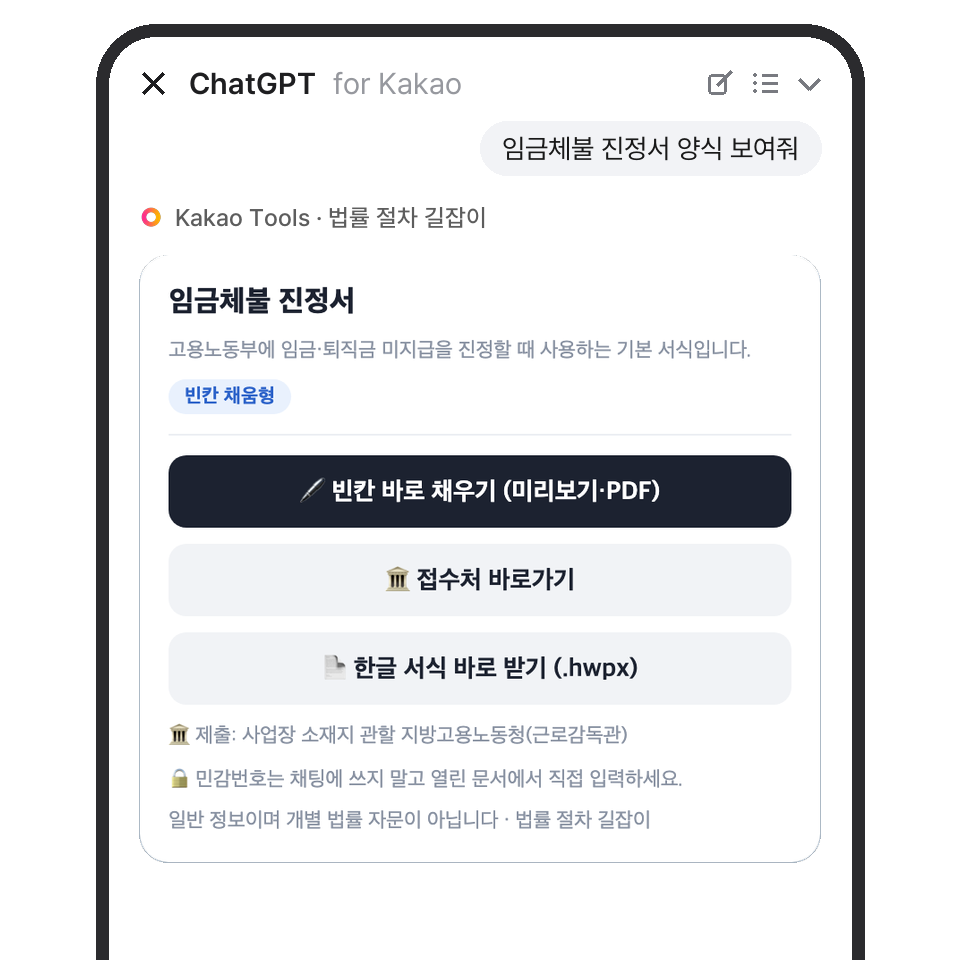
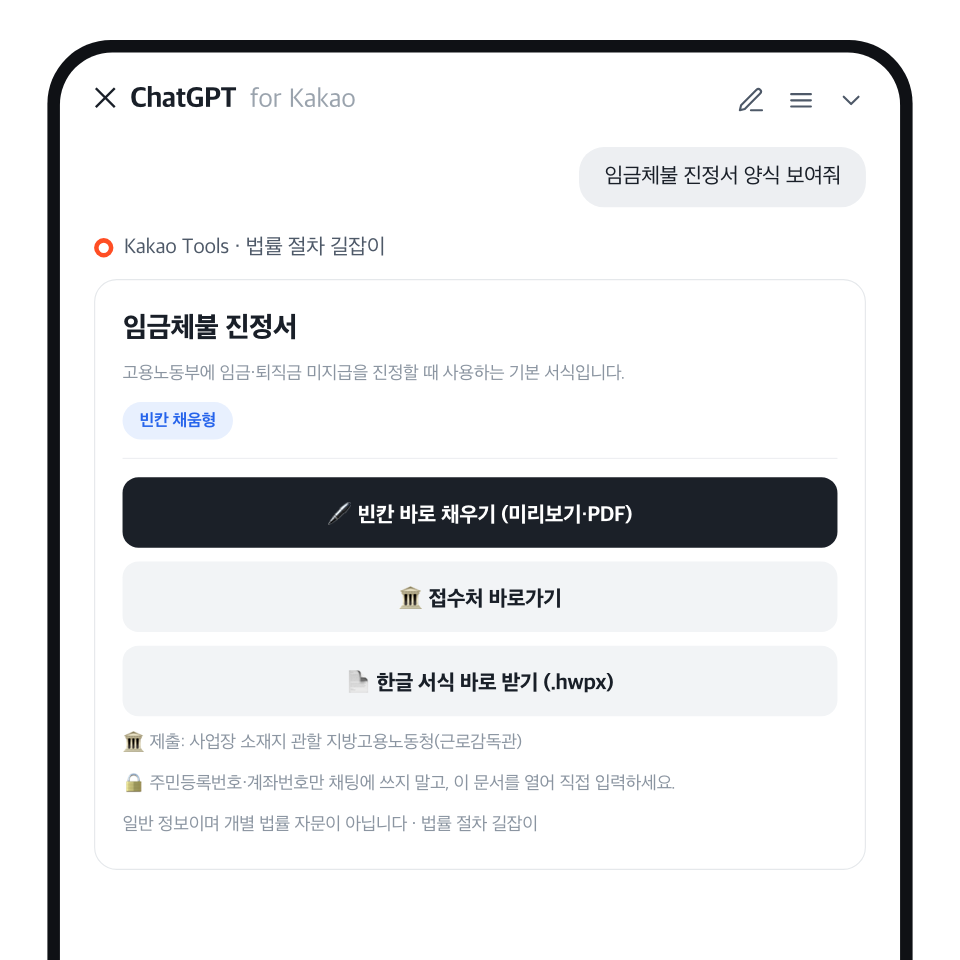
feat(assets): 소개 이미지 5장을 서버 응답으로 자동 생성 — 카드 5종으로 교체
8/31판 문제 셋:
1. 5장 중 3장이 같은 '빠른 진단' 카드. 카드 8종 중 3종만 노출.
2. 02 서식카드 캡션이 9/2(c2ca0d8) 이전 문구 — 제품에 없는 말이 콘솔에 걸려
   있었다. 손으로 만들어 생성기가 없으니 제품이 바뀌어도 갱신되지 않았다.
3. 9/1~9/2 작업(5인 미만·킥보드·응급입원·공무원)이 하나도 안 보였다.

scripts/capture-intro.mjs 신설 — tools/call 응답의 위젯 JSON을 그대로 렌더링해
헤드리스 크롬으로 960×960 캡처. 이미지가 제품과 어긋날 수 없다.
npm run capture:intro 로 언제든 다시 뽑는다.

새 5장은 카드 종류가 겹치지 않는다: 진단·서식·전화(tel:)·계산기·기한 D-day.
배경은 흰색 불투명으로 고정(--default-background-color).

Changed region(s): [[0.0312, 0.0, 0.9688, 1.0], [0.3438, 0.6875, 0.6562, 0.7188]]

diff --git a/docs/CONSOLE_META.md b/docs/CONSOLE_META.md
@@ -57,15 +57,38 @@
 유튜브에 저에 대한 가짜뉴스가 올라왔어요
 ```
 
-## 소개 이미지 5장
-`assets/kakao-tools-examples/` — 960×960·**흰 배경(불투명)**.
+## 소개 이미지 5장 — ★2026-09-04 전면 교체
 
-- 8/31 업로드본은 **투명배경(PNG 알파)**이었다. 콘솔·카톡의 어두운 화면에서
-  배경이 검게 비쳐 보였다. → **9/4 아린님 지적**: "가이드 규격대로 흰색 처리 부탁".
-- 9/4 5장 전부 흰색으로 합성(알파 채널 제거, 960×960 유지). 반투명 가장자리와
-  카드 그림자는 알파 합성으로 흰색에 녹여 티가 나지 않는다.
-- ⛔ 다시 투명배경으로 만들지 말 것. 배경은 흰색 불투명이 규격이다.
+`assets/kakao-tools-examples/` — 960×960 · **흰 배경(불투명)** · 5장.
+**생성:** `npm run capture:intro` (= `scripts/capture-intro.mjs`)
+
+| | 파일 | 발화 | 카드 종류 |
+|---|---|---|---|
+| 1 | `01_오인미만해고` | 직원이 나 포함 세 명인데 갑자기 나오지 말래요 | 빠른 진단 |
+| 2 | `02_서식카드` | 임금체불 진정서 양식 보여줘 | 서식 |
+| 3 | `03_전화바로걸기` | 변호사 살 돈이 없어요 | 무료지원 · `tel:` 버튼 |
+| 4 | `04_퇴직금계산` | 3년 일했고 월급 300만원인데 퇴직금 얼마예요? | 금액 계산기 |
+| 5 | `05_기한디데이` | 아버지 돌아가신 지 두 달인데 상속포기 아직 돼요? | 기한 D-day |
+
+### 왜 8/31판을 버렸나
+- **5장 중 3장이 같은 카드였다.** 01·04·05가 전부 「빠른 진단」이었고,
+  카드 8종 중 3종만 보여주고 있었다. 계산기·기한 카드는 한 번도 안 나왔다.
+- **02가 이미 낡아 있었다.** 캡션이 `민감번호는 채팅에 쓰지 말고…`였는데
+  9/2(`c2ca0d8`)에 `🔒 주민등록번호·계좌번호만…`으로 바꿨다.
+  **제품에 없는 문구가 콘솔에 걸려 있었다.**
+- 9/1~9/2에 만든 5인 미만·킥보드·응급입원·공무원이 하나도 안 보였다.
+- 배경이 투명이라 어두운 화면에서 검게 비쳤다(9/4 아린님 지적).
+
+### 그래서 손으로 만들지 않는다
+8/31판은 손으로 만들었고 생성기가 없었다. 그래서 제품이 바뀌어도 이미지는
+조용히 낡았다. 지금은 **서버의 `tools/call` 응답(위젯 JSON)을 그대로 그린다** —
+이미지가 제품보다 앞서거나 뒤처질 수 없다. 서식 캡처와 같은 방식(헤드리스 크롬).
+
+### 규격
+- 960×960 · RGB · **알파 채널 없음**. ⛔ 투명배경으로 만들지 말 것.
+  (크롬 `--default-background-color=FFFFFFFF`로 고정해 뒀다.)
 - 👉 **콘솔에 다시 업로드해야 반영된다**(재배포와 무관 — 이미지는 콘솔에만 있다).
+- 업로드용 사본: `~/Downloads/카카오툴즈_소개이미지/`
 
 ---
 
